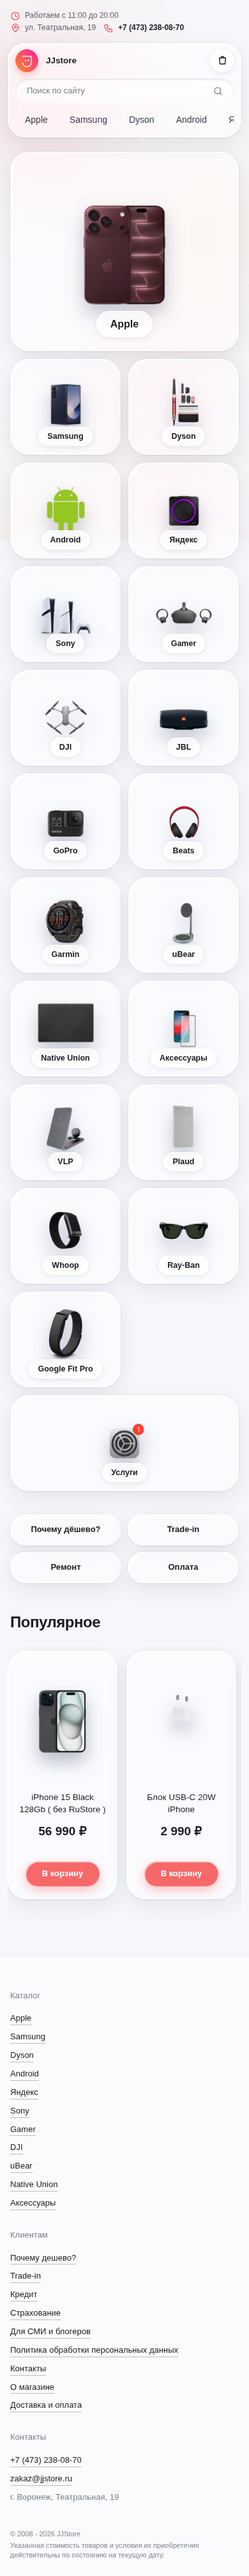
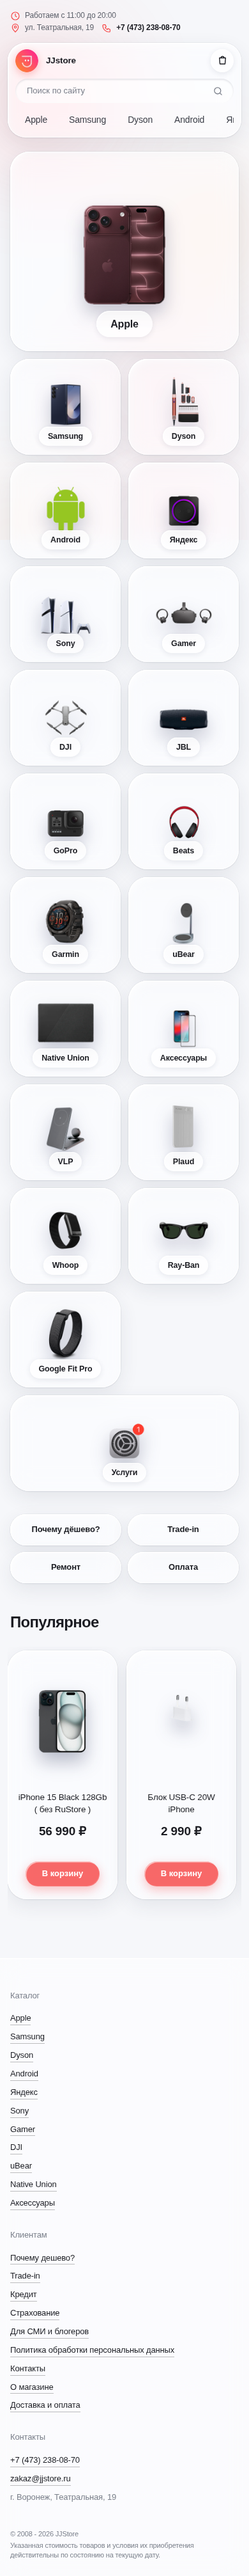
Switch typography to SF Pro / Inter
Claude-Session: https://claude.ai/code/session_0163ZjdM2uxMpsZRiagcJtBK

diff --git a/assets/style.css b/assets/style.css
@@ -9,7 +9,7 @@
 }
 *{box-sizing:border-box;margin:0;padding:0;-webkit-tap-highlight-color:transparent}
 html{scroll-behavior:smooth;color-scheme:light}
-body{font-family:Montserrat,-apple-system,"SF Pro Text","Segoe UI",sans-serif;font-size:14px;color:var(--text);background:var(--bg);-webkit-font-smoothing:antialiased;line-height:1.45;overflow-x:hidden}
+body{font-family:-apple-system,BlinkMacSystemFont,"SF Pro Text","SF Pro Display",Inter,"Segoe UI",Roboto,sans-serif;letter-spacing:-.011em;font-size:14px;color:var(--text);background:var(--bg);-webkit-font-smoothing:antialiased;line-height:1.45;overflow-x:hidden}
 a{color:inherit;text-decoration:none}
 img{display:block;max-width:100%}
 button{font:inherit;cursor:pointer;border:0;background:none;color:inherit}
@@ -82,7 +82,7 @@ svg{width:1em;height:1em;fill:none;stroke:currentColor;stroke-width:1.8;stroke-l
   background:rgba(255,255,255,.7);box-shadow:inset 1px 1px 0 #fff,0 2px 8px rgba(40,50,80,.1);transition:transform .35s var(--ease),background .25s}
 .icons a:hover,.icons button:hover{background:#fff;transform:scale(1.1)}
 .icons a:active,.icons button:active{transform:scale(.92)}
-.badge{position:absolute;top:-3px;right:-3px;min-width:17px;height:17px;padding:0 4px;border-radius:99px;background:var(--accent);color:#fff;font:700 10px/17px Montserrat,sans-serif;text-align:center;font-style:normal;display:none;box-shadow:0 2px 6px rgba(246,71,71,.5)}
+.badge{position:absolute;top:-3px;right:-3px;min-width:17px;height:17px;padding:0 4px;border-radius:99px;background:var(--accent);color:#fff;font-weight:700;font-size:10px;line-height:17px;text-align:center;font-style:normal;display:none;box-shadow:0 2px 6px rgba(246,71,71,.5)}
 .badge.on{display:block}
 .brands{display:flex;justify-content:space-between;gap:4px;overflow-x:auto;padding:2px 0;scrollbar-width:none}
 .brands::-webkit-scrollbar{display:none}
@@ -110,7 +110,7 @@ svg{width:1em;height:1em;fill:none;stroke:currentColor;stroke-width:1.8;stroke-l
 .quick a:hover{transform:translateY(-3px)}
 
 /* ---------- Products ---------- */
-.sec-title{font-size:30px;font-weight:700;letter-spacing:-.02em;margin:64px 0 0}
+.sec-title{font-size:32px;font-weight:700;letter-spacing:-.03em;margin:64px 0 0}
 .products{position:relative;margin:20px 0 80px}
 .track{display:flex;gap:18px;overflow-x:auto;scroll-snap-type:x mandatory;scrollbar-width:none;padding:6px 4px 34px;margin:0 -4px -22px}
 .track::-webkit-scrollbar{display:none}

diff --git a/index.html b/index.html
@@ -9,7 +9,7 @@
 <link rel="icon" href="assets/brand/favicon.png">
 <link rel="preconnect" href="https://fonts.googleapis.com">
 <link rel="preconnect" href="https://fonts.gstatic.com" crossorigin>
-<link href="https://fonts.googleapis.com/css2?family=Montserrat:wght@400;500;600;700&display=swap&subset=cyrillic" rel="stylesheet">
+<link href="https://fonts.googleapis.com/css2?family=Inter:wght@400;500;600;700&display=swap" rel="stylesheet">
 <link rel="stylesheet" href="assets/style.css">
 </head>
 <body>
